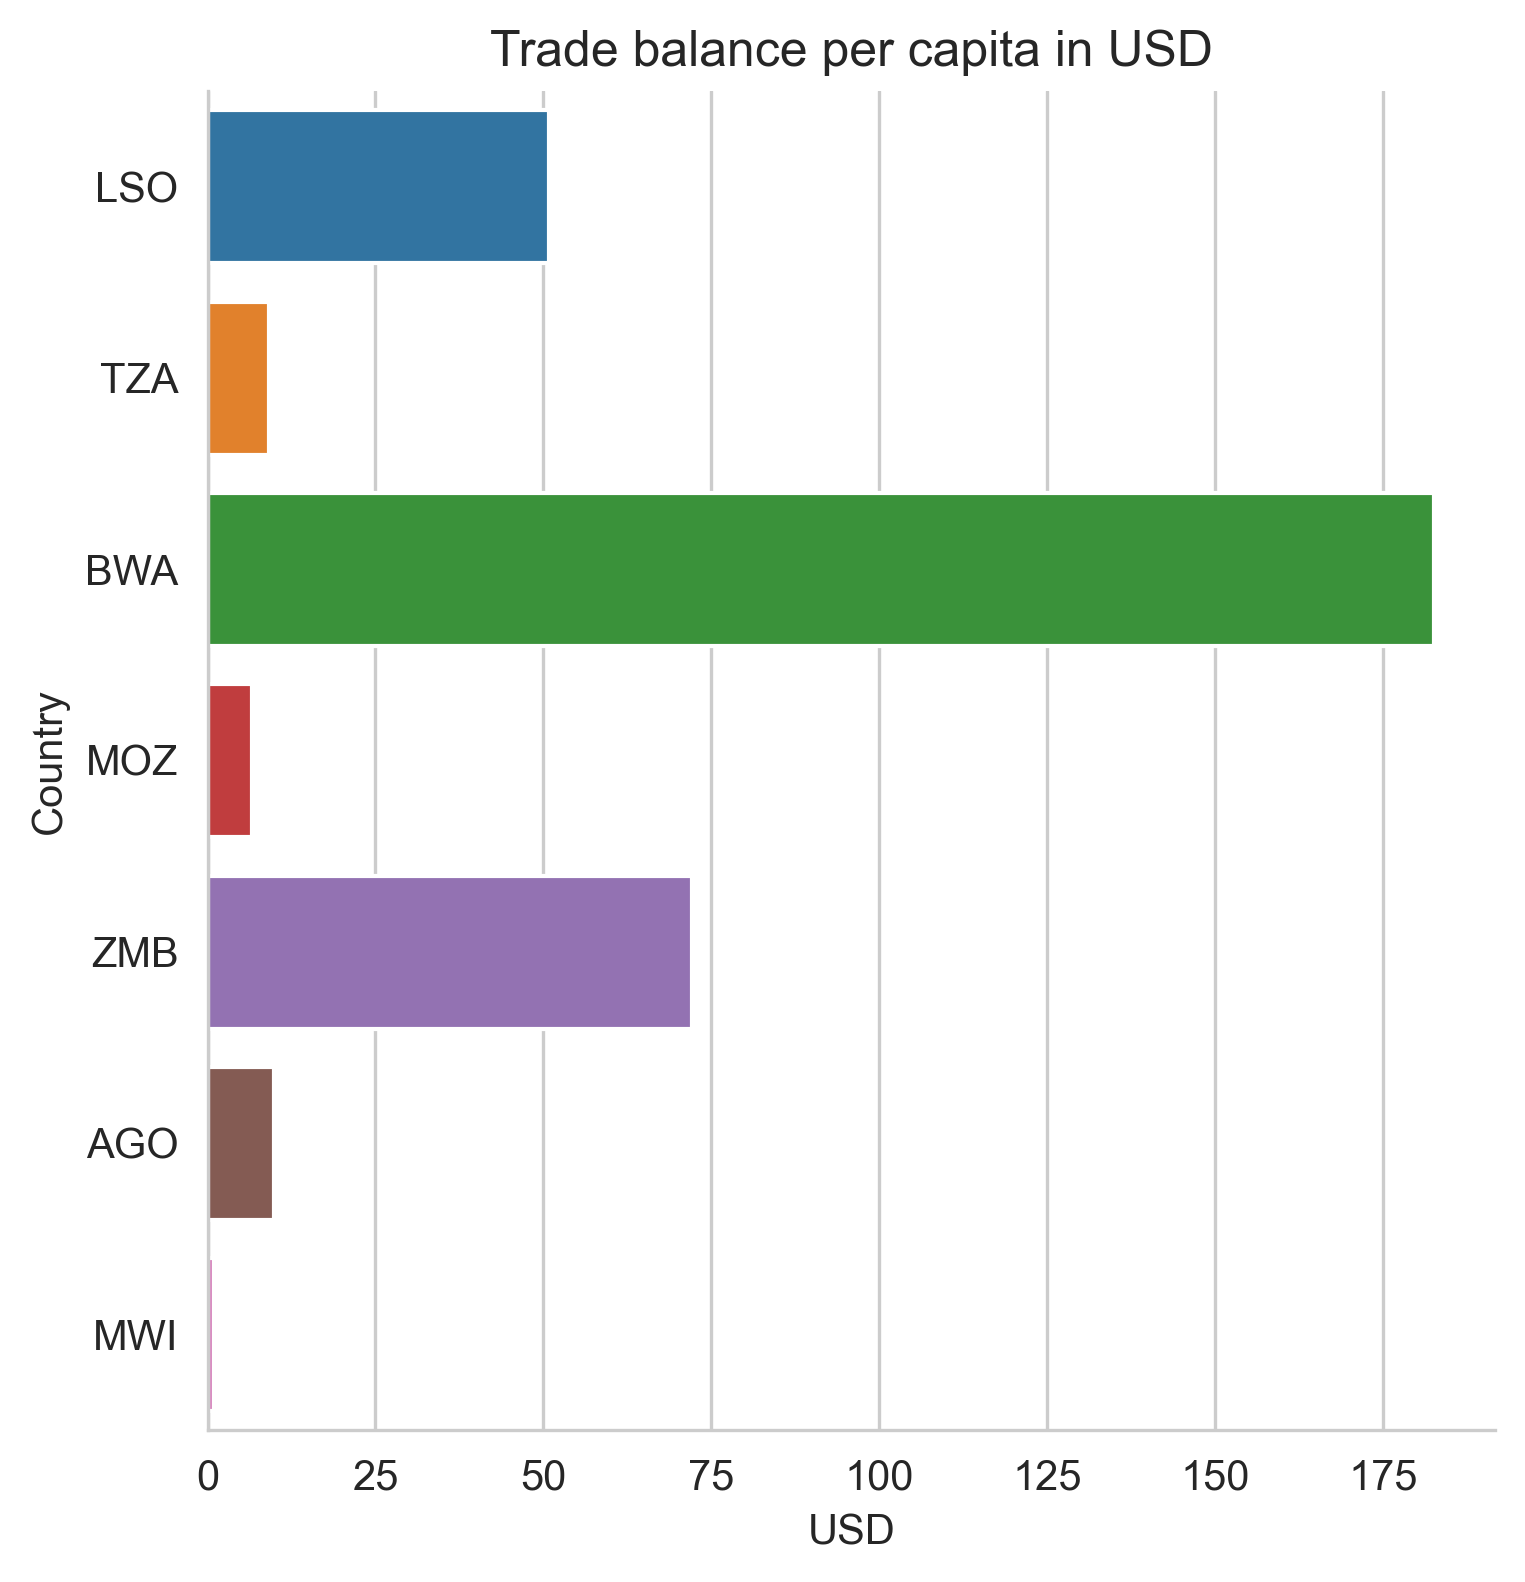
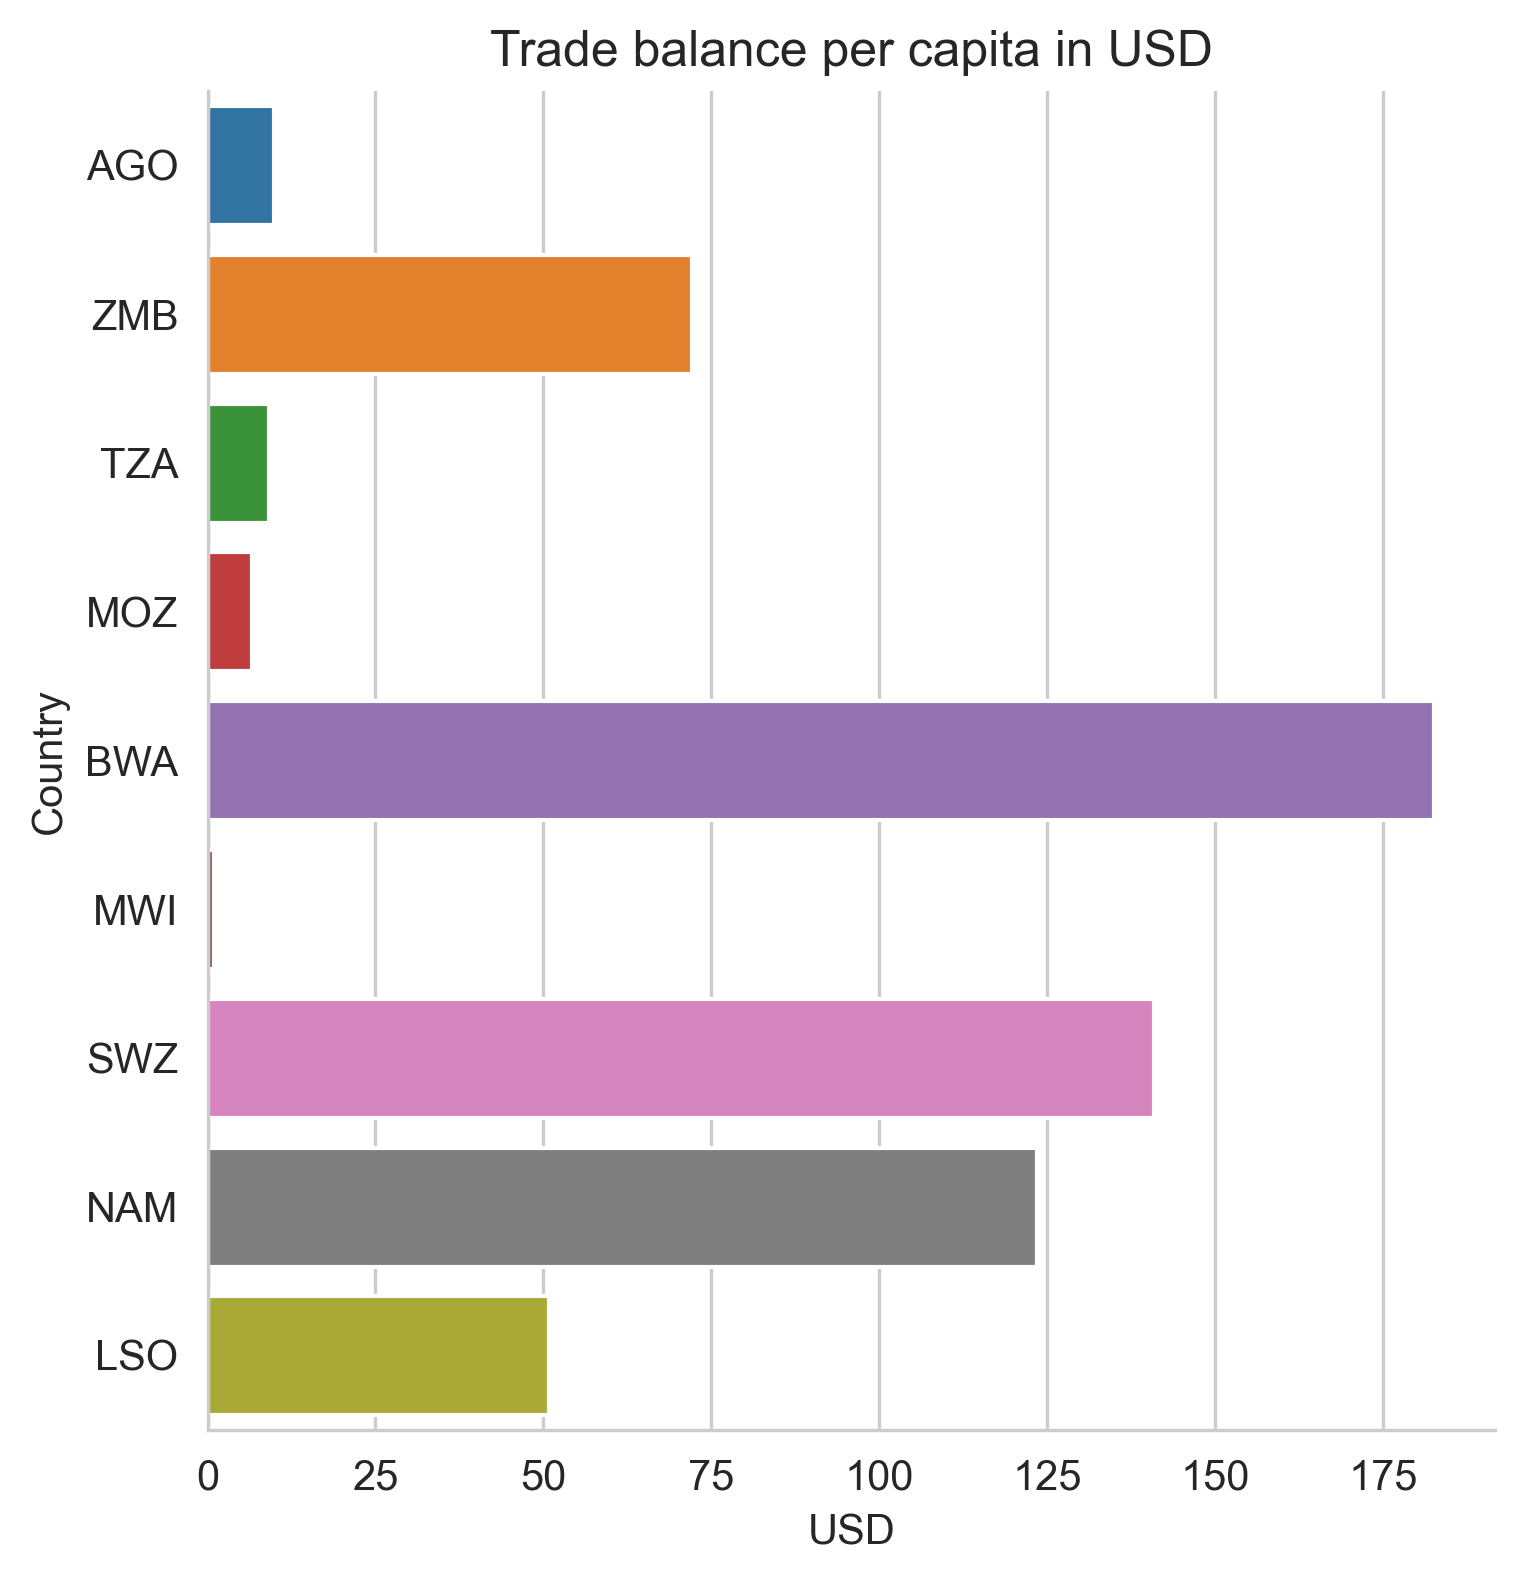
update remote

diff --git a/python/explore_energy_generation.py b/python/explore_energy_generation.py
@@ -70,6 +70,8 @@ zmb_df = top10_products(labelled_df, 'ZMB')
 ago_df = top10_products(labelled_df, 'AGO')
 mwi_df = top10_products(labelled_df, 'MWI')
 lso_df = top10_products(labelled_df, 'LSO')
+swz_df = top10_products(labelled_df, 'SWZ')
+nam_df = top10_products(labelled_df, 'NAM')
 
 # Create a function that returns the top 10 trade partners by trade balance weighted by population for a given location_code
 
@@ -102,6 +104,9 @@ plot_top10_partners(zmb_df, 'ZMB')
 plot_top10_partners(ago_df, 'AGO')
 plot_top10_partners(mwi_df, 'MWI')
 plot_top10_partners(lso_df, 'LSO')
+plot_top10_partners(swz_df, 'SWZ')
+plot_top10_partners(nam_df, 'NAM')
+
 
 # Combine the five datasets 
 combined_df = pl.concat([rwa_df, uga_df, ken_df, bdi_df, tza_df])
@@ -118,7 +123,7 @@ aggregated_df = (
 
 print(aggregated_df)
 
-sadec_df = pl.concat([bwa_df, moz_df, zmb_df, ago_df, mwi_df, tza_df, lso_df])
+sadec_df = pl.concat([bwa_df, moz_df, zmb_df, ago_df, mwi_df, tza_df, lso_df, swz_df, nam_df])
 aggregated_sadecc_df = (
     sadec_df
     .groupby(['location_code'])
